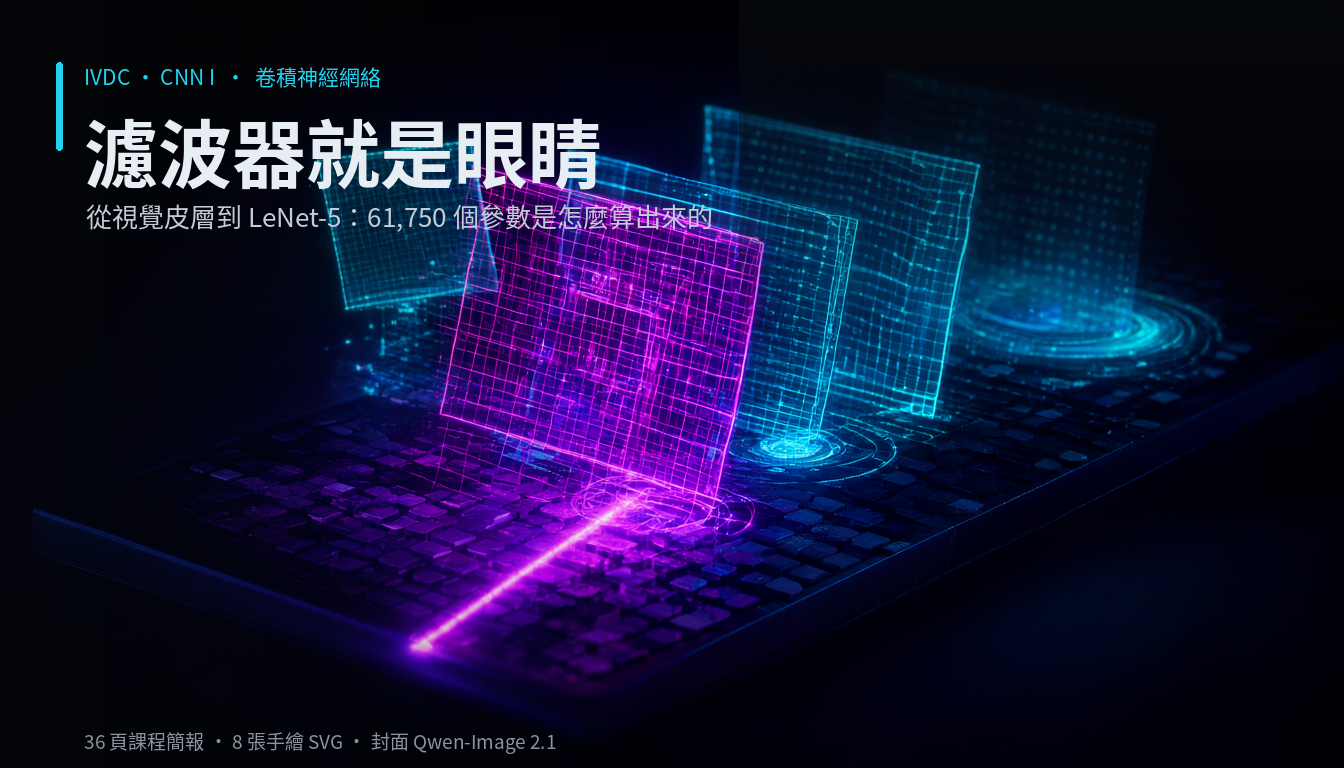
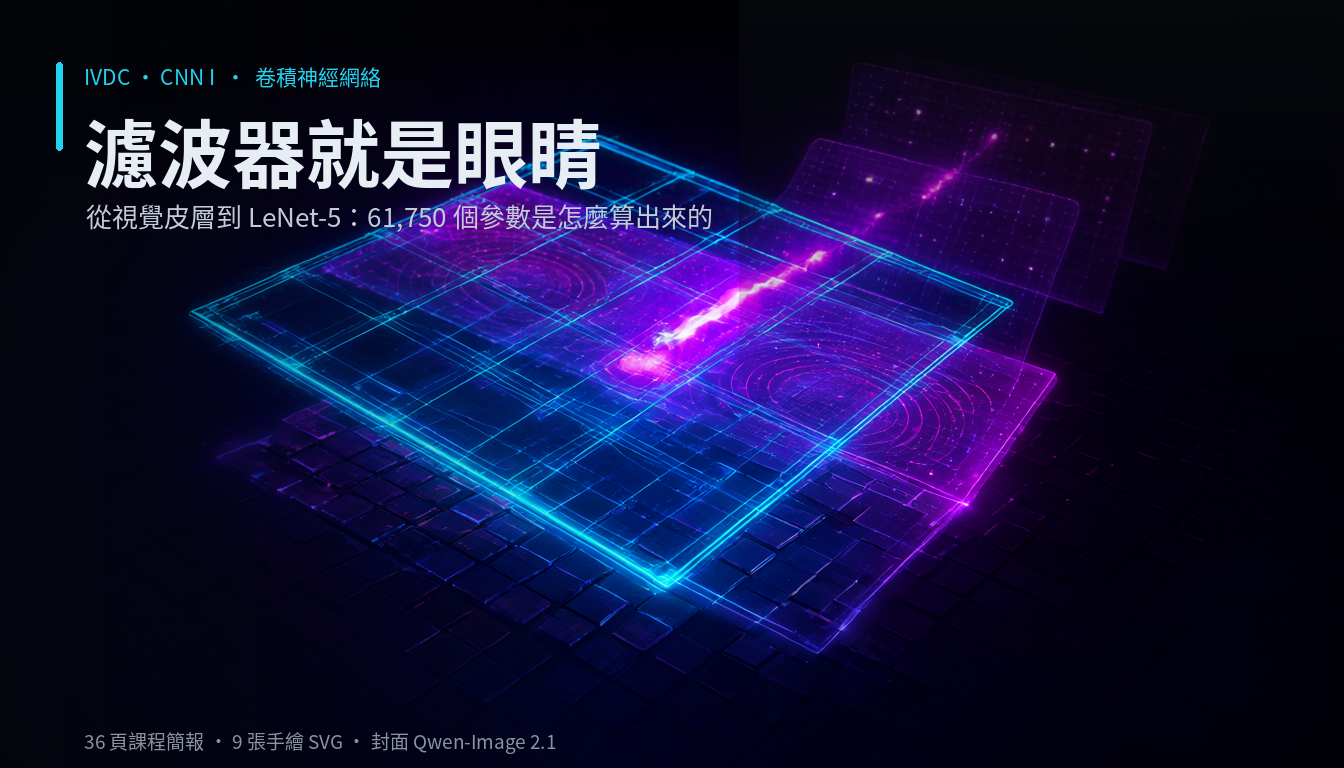
post(figs): 補第 8 節「九個應用」+ 九宮格霓虹 SVG（第 9 張）；封面改用候選 A（標題區更暗）

diff --git a/source/_posts/cnn-1-convnet-neon.md b/source/_posts/cnn-1-convnet-neon.md
@@ -20,7 +20,7 @@ index_img: /img/covers/cnn-1-convnet-neon.png
 banner_img: /img/covers/cnn-1-convnet-neon-banner.png
 ---
 
-> <strong>整理說明</strong>：這是我上 IVDC「卷積神經網絡（CNN）I」的課後筆記。36 頁課程簡報講的是很標準的一條線：影像為什麼是數字、視覺皮層的四層抽象、卷積的三條規則、LeNet-5、以及卷積的反向傳播。簡報本身有幾個數字我算不回去（1080×1080×3 的向量長度、86 億神經元的連線總數、LeNet-5 的參數總數），我把它們全部重算一次，列在 <a href="#errata">第 8 節</a>。文中每一個參數量與乘加次數都是我逐層手算、再寫程式覆核的；插圖是自己畫的 SVG（霓虹風），封面是本地 ComfyUI 跑 Qwen-Image 2.1 生成的。
+> <strong>整理說明</strong>：這是我上 IVDC「卷積神經網絡（CNN）I」的課後筆記。36 頁課程簡報講的是很標準的一條線：影像為什麼是數字、視覺皮層的四層抽象、卷積的三條規則、LeNet-5、以及卷積的反向傳播。簡報本身有幾個數字我算不回去（1080×1080×3 的向量長度、86 億神經元的連線總數、LeNet-5 的參數總數），我把它們全部重算一次，列在 <a href="#errata">第 9 節</a>。文中每一個參數量與乘加次數都是我逐層手算、再寫程式覆核的；插圖是自己畫的 SVG（霓虹風），封面是本地 ComfyUI 跑 Qwen-Image 2.1 生成的。
 
 <!-- more -->
 
@@ -1238,9 +1238,111 @@ C5 的感受野正好是 **32×32 = 整張輸入**。這不是巧合：如果最
 池化的梯度只做路由：max 把梯度整包給 argmax 的位置，avg 平均分給窗口內每個像素（`G/k²`）。
 
 
+## 8. 簡報只點名、沒有展開的那一塊：九個應用
+
+第 4 個模組列了九個應用（語義分割、人臉、自駕、上色、場景優化、超解析、醫學、生物、基因組），但整份簡報在反傳那頁就結束了 —— 這九個其實只出現在目錄上。我把它們整理成一張圖，並標上各自用到 CNN 的哪個部位：
+
+<figure style="margin:22px 0;padding:14px 12px;background:#0d1117;border:1px solid #222b36;border-radius:12px;text-align:center;-webkit-print-color-adjust:exact;print-color-adjust:exact">
+<svg xmlns="http://www.w3.org/2000/svg" viewBox="0 0 960 640" role="img" aria-label="九宮格列出簡報點名的九個 CNN 應用：語義分割、人臉、自駕、上色、場景優化、超解析、醫學、生物、基因組" style="width:100%;height:auto;display:block">
+<defs>
+<filter id="f9-glow" x="-60%" y="-60%" width="220%" height="220%"><feGaussianBlur stdDeviation="6" result="b"/><feMerge><feMergeNode in="b"/><feMergeNode in="SourceGraphic"/></feMerge></filter>
+<filter id="f9-soft" x="-60%" y="-60%" width="220%" height="220%"><feGaussianBlur stdDeviation="11" result="b"/><feMerge><feMergeNode in="b"/><feMergeNode in="SourceGraphic"/></feMerge></filter>
+<pattern id="f9-grid" width="24" height="24" patternUnits="userSpaceOnUse"><path d="M24 0H0V24" fill="none" stroke="#1a2331" stroke-width="1"/></pattern>
+<marker id="f9-arw-22d3ee" viewBox="0 0 10 10" refX="8.5" refY="5" markerWidth="5.5" markerHeight="5.5" orient="auto-start-reverse"><path d="M0,0 L10,5 L0,10 z" fill="#22d3ee"/></marker><marker id="f9-arw-a78bfa" viewBox="0 0 10 10" refX="8.5" refY="5" markerWidth="5.5" markerHeight="5.5" orient="auto-start-reverse"><path d="M0,0 L10,5 L0,10 z" fill="#a78bfa"/></marker><marker id="f9-arw-f472b6" viewBox="0 0 10 10" refX="8.5" refY="5" markerWidth="5.5" markerHeight="5.5" orient="auto-start-reverse"><path d="M0,0 L10,5 L0,10 z" fill="#f472b6"/></marker><marker id="f9-arw-fbbf24" viewBox="0 0 10 10" refX="8.5" refY="5" markerWidth="5.5" markerHeight="5.5" orient="auto-start-reverse"><path d="M0,0 L10,5 L0,10 z" fill="#fbbf24"/></marker><marker id="f9-arw-a3e635" viewBox="0 0 10 10" refX="8.5" refY="5" markerWidth="5.5" markerHeight="5.5" orient="auto-start-reverse"><path d="M0,0 L10,5 L0,10 z" fill="#a3e635"/></marker><marker id="f9-arw-2dd4bf" viewBox="0 0 10 10" refX="8.5" refY="5" markerWidth="5.5" markerHeight="5.5" orient="auto-start-reverse"><path d="M0,0 L10,5 L0,10 z" fill="#2dd4bf"/></marker></defs>
+<rect x="0.75" y="0.75" width="958.5" height="638.5" rx="16" fill="#0d1117" stroke="#222b36" stroke-width="1.5"/>
+<rect x="0.75" y="0.75" width="958.5" height="638.5" rx="16" fill="url(#f9-grid)" opacity="0.5"/>
+<text x="48" y="52" font-size="25" fill="#e6edf3" font-weight="700" font-family="'Segoe UI','Microsoft JhengHei','Noto Sans TC',sans-serif">第 4 個模組：同一個積木，九種用途</text>
+<text x="48" y="80" font-size="14.5" fill="#8b949e" font-family="'Segoe UI','Microsoft JhengHei','Noto Sans TC',sans-serif">(Conv+ReLU+Pool)×N + FC —— 換的是資料與損失函數，不是架構</text>
+<rect x="48.0" y="112.0" width="272.0" height="150.0" rx="12" fill="#0d1621" opacity="1.0" stroke="#22d3ee55" stroke-width="1.3"/>
+<rect x="73" y="141" width="42" height="42" rx="4" fill="none" stroke="#22d3ee" stroke-width="1.8" opacity="0.55"/><path d="M73 164 L88 153 L98 165 L115 154 L115 183 L73 183 Z" fill="#22d3ee" opacity="0.32"/><path d="M73 164 L88 153 L98 165 L115 154" fill="none" stroke="#22d3ee" stroke-width="2"/><text x="132.0" y="156.0" font-size="14.5" fill="#e6edf3" font-weight="700" font-family="'Segoe UI','Microsoft JhengHei','Noto Sans TC',sans-serif" opacity="1.0">語義分割</text>
+<text x="132.0" y="176.0" font-size="10.5" fill="#8b949e" font-weight="400" font-family="'Segoe UI','Microsoft JhengHei','Noto Sans TC',sans-serif" opacity="1.0">逐像素分類：</text>
+<text x="68.0" y="216.0" font-size="10.5" fill="#9aa7b6" font-weight="400" font-family="'Segoe UI','Microsoft JhengHei','Noto Sans TC',sans-serif" opacity="1.0">H×W×C → H×W×classes</text>
+<path d="M 68.0 232.0 L 300.0 232.0" fill="none" stroke="#222b36" stroke-width="1" opacity="1.0"/>
+<text x="68.0" y="250.0" font-size="9.5" fill="#4d5a6b" font-weight="400" font-family="'Segoe UI','Microsoft JhengHei','Noto Sans TC',sans-serif" opacity="1.0">第 4 模組</text>
+<text x="300.0" y="250.0" font-size="9.5" fill="#4d5a6b" font-weight="400" font-family="'Segoe UI','Microsoft JhengHei','Noto Sans TC',sans-serif" opacity="1.0" text-anchor="end">#1</text>
+<rect x="344.0" y="112.0" width="272.0" height="150.0" rx="12" fill="#0d1621" opacity="1.0" stroke="#a78bfa55" stroke-width="1.3"/>
+<circle cx="390" cy="162" r="13" fill="none" stroke="#a78bfa" stroke-width="1.8"/><circle cx="385.5" cy="158" r="1.9" fill="#a78bfa"/><circle cx="394.5" cy="158" r="1.9" fill="#a78bfa"/><path d="M385 167 Q390 172 395 167" fill="none" stroke="#a78bfa" stroke-width="1.7"/><path d="M364 136 l7 0 M364 136 l0 7" fill="none" stroke="#a78bfa" stroke-width="2" opacity="0.8"/><path d="M416 136 l-7 0 M416 136 l0 7" fill="none" stroke="#a78bfa" stroke-width="2" opacity="0.8"/><path d="M364 188 l7 0 M364 188 l0 -7" fill="none" stroke="#a78bfa" stroke-width="2" opacity="0.8"/><path d="M416 188 l-7 0 M416 188 l0 7" fill="none" stroke="#a78bfa" stroke-width="2" opacity="0.8"/><text x="428.0" y="156.0" font-size="14.5" fill="#e6edf3" font-weight="700" font-family="'Segoe UI','Microsoft JhengHei','Noto Sans TC',sans-serif" opacity="1.0">人臉偵測 / 識別</text>
+<text x="428.0" y="176.0" font-size="10.5" fill="#8b949e" font-weight="400" font-family="'Segoe UI','Microsoft JhengHei','Noto Sans TC',sans-serif" opacity="1.0">偵測＝錨框；識別＝嵌入＋度量學習</text>
+<text x="364.0" y="216.0" font-size="10.5" fill="#9aa7b6" font-weight="400" font-family="'Segoe UI','Microsoft JhengHei','Noto Sans TC',sans-serif" opacity="1.0">偵測＝錨框；識別＝嵌入＋度量學習</text>
+<path d="M 364.0 232.0 L 596.0 232.0" fill="none" stroke="#222b36" stroke-width="1" opacity="1.0"/>
+<text x="364.0" y="250.0" font-size="9.5" fill="#4d5a6b" font-weight="400" font-family="'Segoe UI','Microsoft JhengHei','Noto Sans TC',sans-serif" opacity="1.0">第 4 模組</text>
+<text x="596.0" y="250.0" font-size="9.5" fill="#4d5a6b" font-weight="400" font-family="'Segoe UI','Microsoft JhengHei','Noto Sans TC',sans-serif" opacity="1.0" text-anchor="end">#2</text>
+<rect x="640.0" y="112.0" width="272.0" height="150.0" rx="12" fill="#0d1621" opacity="1.0" stroke="#f472b655" stroke-width="1.3"/>
+<path d="M665 183 L680 141 L692 141 L707 183" fill="none" stroke="#f472b6" stroke-width="1.6" opacity="0.6"/><path d="M686 146 L686 159 M686 167 L686 179" stroke="#f472b6" stroke-width="2" stroke-dasharray="4 4"/><rect x="678" y="161" width="16" height="10" rx="2" fill="none" stroke="#f472b6" stroke-width="1.8"/><text x="724.0" y="156.0" font-size="14.5" fill="#e6edf3" font-weight="700" font-family="'Segoe UI','Microsoft JhengHei','Noto Sans TC',sans-serif" opacity="1.0">自動駕駛</text>
+<text x="724.0" y="176.0" font-size="10.5" fill="#8b949e" font-weight="400" font-family="'Segoe UI','Microsoft JhengHei','Noto Sans TC',sans-serif" opacity="1.0">即時偵測＋分割＋深度</text>
+<text x="660.0" y="216.0" font-size="10.5" fill="#9aa7b6" font-weight="400" font-family="'Segoe UI','Microsoft JhengHei','Noto Sans TC',sans-serif" opacity="1.0">即時偵測＋分割＋深度</text>
+<path d="M 660.0 232.0 L 892.0 232.0" fill="none" stroke="#222b36" stroke-width="1" opacity="1.0"/>
+<text x="660.0" y="250.0" font-size="9.5" fill="#4d5a6b" font-weight="400" font-family="'Segoe UI','Microsoft JhengHei','Noto Sans TC',sans-serif" opacity="1.0">第 4 模組</text>
+<text x="892.0" y="250.0" font-size="9.5" fill="#4d5a6b" font-weight="400" font-family="'Segoe UI','Microsoft JhengHei','Noto Sans TC',sans-serif" opacity="1.0" text-anchor="end">#3</text>
+<rect x="48.0" y="286.0" width="272.0" height="150.0" rx="12" fill="#0d1621" opacity="1.0" stroke="#fbbf2455" stroke-width="1.3"/>
+<circle cx="94" cy="336" r="21" fill="#fbbf24" opacity="0.18"/><path d="M94 315 A 21 21 0 0 0 94 357 Z" fill="#3a4550"/><path d="M94 315 A 21 21 0 0 1 94 357 Z" fill="#fbbf24" opacity="0.85"/><circle cx="94" cy="336" r="21" fill="none" stroke="#fbbf24" stroke-width="1.6"/><path d="M94 315 L94 357" stroke="#fbbf24" stroke-width="1.4" opacity="0.7"/><text x="132.0" y="330.0" font-size="14.5" fill="#e6edf3" font-weight="700" font-family="'Segoe UI','Microsoft JhengHei','Noto Sans TC',sans-serif" opacity="1.0">影像上色</text>
+<text x="132.0" y="350.0" font-size="10.5" fill="#8b949e" font-weight="400" font-family="'Segoe UI','Microsoft JhengHei','Noto Sans TC',sans-serif" opacity="1.0">L → a, b 通道迴歸</text>
+<text x="68.0" y="390.0" font-size="10.5" fill="#9aa7b6" font-weight="400" font-family="'Segoe UI','Microsoft JhengHei','Noto Sans TC',sans-serif" opacity="1.0">L → a, b 通道迴歸</text>
+<path d="M 68.0 406.0 L 300.0 406.0" fill="none" stroke="#222b36" stroke-width="1" opacity="1.0"/>
+<text x="68.0" y="424.0" font-size="9.5" fill="#4d5a6b" font-weight="400" font-family="'Segoe UI','Microsoft JhengHei','Noto Sans TC',sans-serif" opacity="1.0">第 4 模組</text>
+<text x="300.0" y="424.0" font-size="9.5" fill="#4d5a6b" font-weight="400" font-family="'Segoe UI','Microsoft JhengHei','Noto Sans TC',sans-serif" opacity="1.0" text-anchor="end">#4</text>
+<rect x="344.0" y="286.0" width="272.0" height="150.0" rx="12" fill="#0d1621" opacity="1.0" stroke="#a3e63555" stroke-width="1.3"/>
+<path d="M369 325 L411 325" stroke="#a3e635" stroke-width="1.6" opacity="0.55"/><circle cx="383" cy="325" r="4" fill="#a3e635"/><path d="M369 336 L411 336" stroke="#a3e635" stroke-width="1.6" opacity="0.55"/><circle cx="395" cy="336" r="4" fill="#a3e635"/><path d="M369 347 L411 347" stroke="#a3e635" stroke-width="1.6" opacity="0.55"/><circle cx="388" cy="347" r="4" fill="#a3e635"/><text x="428.0" y="330.0" font-size="14.5" fill="#e6edf3" font-weight="700" font-family="'Segoe UI','Microsoft JhengHei','Noto Sans TC',sans-serif" opacity="1.0">場景／照片優化</text>
+<text x="428.0" y="350.0" font-size="10.5" fill="#8b949e" font-weight="400" font-family="'Segoe UI','Microsoft JhengHei','Noto Sans TC',sans-serif" opacity="1.0">反傳進「影像」，不只調權重</text>
+<text x="364.0" y="390.0" font-size="10.5" fill="#9aa7b6" font-weight="400" font-family="'Segoe UI','Microsoft JhengHei','Noto Sans TC',sans-serif" opacity="1.0">反傳進「影像」，不只調權重</text>
+<path d="M 364.0 406.0 L 596.0 406.0" fill="none" stroke="#222b36" stroke-width="1" opacity="1.0"/>
+<text x="364.0" y="424.0" font-size="9.5" fill="#4d5a6b" font-weight="400" font-family="'Segoe UI','Microsoft JhengHei','Noto Sans TC',sans-serif" opacity="1.0">第 4 模組</text>
+<text x="596.0" y="424.0" font-size="9.5" fill="#4d5a6b" font-weight="400" font-family="'Segoe UI','Microsoft JhengHei','Noto Sans TC',sans-serif" opacity="1.0" text-anchor="end">#5</text>
+<rect x="640.0" y="286.0" width="272.0" height="150.0" rx="12" fill="#0d1621" opacity="1.0" stroke="#2dd4bf55" stroke-width="1.3"/>
+<rect x="665" y="338" width="11" height="11" rx="2" fill="none" stroke="#2dd4bf" stroke-width="1.6" opacity="0.6"/><rect x="687" y="330" width="20" height="20" rx="3" fill="none" stroke="#2dd4bf" stroke-width="2"/><path d="M678 342 L684 335" stroke="#2dd4bf" stroke-width="1.6" marker-end="url(#f9-arw-2dd4bf)"/><text x="724.0" y="330.0" font-size="14.5" fill="#e6edf3" font-weight="700" font-family="'Segoe UI','Microsoft JhengHei','Noto Sans TC',sans-serif" opacity="1.0">超解析（放大）</text>
+<text x="724.0" y="350.0" font-size="10.5" fill="#8b949e" font-weight="400" font-family="'Segoe UI','Microsoft JhengHei','Noto Sans TC',sans-serif" opacity="1.0">轉置卷積／sub-pixel 上採樣</text>
+<text x="660.0" y="390.0" font-size="10.5" fill="#9aa7b6" font-weight="400" font-family="'Segoe UI','Microsoft JhengHei','Noto Sans TC',sans-serif" opacity="1.0">轉置卷積／sub-pixel 上採樣</text>
+<path d="M 660.0 406.0 L 892.0 406.0" fill="none" stroke="#222b36" stroke-width="1" opacity="1.0"/>
+<text x="660.0" y="424.0" font-size="9.5" fill="#4d5a6b" font-weight="400" font-family="'Segoe UI','Microsoft JhengHei','Noto Sans TC',sans-serif" opacity="1.0">第 4 模組</text>
+<text x="892.0" y="424.0" font-size="9.5" fill="#4d5a6b" font-weight="400" font-family="'Segoe UI','Microsoft JhengHei','Noto Sans TC',sans-serif" opacity="1.0" text-anchor="end">#6</text>
+<rect x="48.0" y="460.0" width="272.0" height="150.0" rx="12" fill="#0d1621" opacity="1.0" stroke="#f472b655" stroke-width="1.3"/>
+<rect x="71" y="489" width="46" height="42" rx="5" fill="none" stroke="#f472b6" stroke-width="1.4" opacity="0.5"/><path d="M73 510 L87 510 L91 499 L96 521 L100 506 L103 510 L115 510" fill="none" stroke="#f472b6" stroke-width="2"/><text x="132.0" y="504.0" font-size="14.5" fill="#e6edf3" font-weight="700" font-family="'Segoe UI','Microsoft JhengHei','Noto Sans TC',sans-serif" opacity="1.0">醫學影像</text>
+<text x="132.0" y="524.0" font-size="10.5" fill="#8b949e" font-weight="400" font-family="'Segoe UI','Microsoft JhengHei','Noto Sans TC',sans-serif" opacity="1.0">X 光、CT、MRI（常為 3D）</text>
+<text x="68.0" y="564.0" font-size="10.5" fill="#9aa7b6" font-weight="400" font-family="'Segoe UI','Microsoft JhengHei','Noto Sans TC',sans-serif" opacity="1.0">X 光、CT、MRI（常為 3D）</text>
+<path d="M 68.0 580.0 L 300.0 580.0" fill="none" stroke="#222b36" stroke-width="1" opacity="1.0"/>
+<text x="68.0" y="598.0" font-size="9.5" fill="#4d5a6b" font-weight="400" font-family="'Segoe UI','Microsoft JhengHei','Noto Sans TC',sans-serif" opacity="1.0">第 4 模組</text>
+<text x="300.0" y="598.0" font-size="9.5" fill="#4d5a6b" font-weight="400" font-family="'Segoe UI','Microsoft JhengHei','Noto Sans TC',sans-serif" opacity="1.0" text-anchor="end">#7</text>
+<rect x="344.0" y="460.0" width="272.0" height="150.0" rx="12" fill="#0d1621" opacity="1.0" stroke="#a78bfa55" stroke-width="1.3"/>
+<circle cx="390" cy="510" r="21" fill="#a78bfa" opacity="0.10"/><circle cx="390" cy="510" r="21" fill="none" stroke="#a78bfa" stroke-width="1.8"/><circle cx="386" cy="507" r="5" fill="none" stroke="#a78bfa" stroke-width="1.5"/><circle cx="396" cy="506" r="1.9" fill="#a78bfa"/><circle cx="397" cy="516" r="1.9" fill="#a78bfa"/><circle cx="388" cy="518" r="1.9" fill="#a78bfa"/><circle cx="382" cy="512" r="1.9" fill="#a78bfa"/><text x="428.0" y="504.0" font-size="14.5" fill="#e6edf3" font-weight="700" font-family="'Segoe UI','Microsoft JhengHei','Noto Sans TC',sans-serif" opacity="1.0">生物影像</text>
+<text x="428.0" y="524.0" font-size="10.5" fill="#8b949e" font-weight="400" font-family="'Segoe UI','Microsoft JhengHei','Noto Sans TC',sans-serif" opacity="1.0">顯微鏡、細胞分割、連接體</text>
+<text x="364.0" y="564.0" font-size="10.5" fill="#9aa7b6" font-weight="400" font-family="'Segoe UI','Microsoft JhengHei','Noto Sans TC',sans-serif" opacity="1.0">顯微鏡、細胞分割、連接體</text>
+<path d="M 364.0 580.0 L 596.0 580.0" fill="none" stroke="#222b36" stroke-width="1" opacity="1.0"/>
+<text x="364.0" y="598.0" font-size="9.5" fill="#4d5a6b" font-weight="400" font-family="'Segoe UI','Microsoft JhengHei','Noto Sans TC',sans-serif" opacity="1.0">第 4 模組</text>
+<text x="596.0" y="598.0" font-size="9.5" fill="#4d5a6b" font-weight="400" font-family="'Segoe UI','Microsoft JhengHei','Noto Sans TC',sans-serif" opacity="1.0" text-anchor="end">#8</text>
+<rect x="640.0" y="460.0" width="272.0" height="150.0" rx="12" fill="#0d1621" opacity="1.0" stroke="#22d3ee55" stroke-width="1.3"/>
+<path d="M677 489 C699 502 673 518 695 531" fill="none" stroke="#22d3ee" stroke-width="2"/><path d="M695 489 C673 502 699 518 677 531" fill="none" stroke="#22d3ee" stroke-width="2" opacity="0.75"/><path d="M682.64 497 L689.36 497" stroke="#22d3ee" stroke-width="1.3" opacity="0.6"/><path d="M680.68 504 L691.32 504" stroke="#22d3ee" stroke-width="1.3" opacity="0.6"/><path d="M679.0 510 L693.0 510" stroke="#22d3ee" stroke-width="1.3" opacity="0.6"/><path d="M680.68 516 L691.32 516" stroke="#22d3ee" stroke-width="1.3" opacity="0.6"/><path d="M682.64 523 L689.36 523" stroke="#22d3ee" stroke-width="1.3" opacity="0.6"/><text x="724.0" y="504.0" font-size="14.5" fill="#e6edf3" font-weight="700" font-family="'Segoe UI','Microsoft JhengHei','Noto Sans TC',sans-serif" opacity="1.0">基因組</text>
+<text x="724.0" y="524.0" font-size="10.5" fill="#8b949e" font-weight="400" font-family="'Segoe UI','Microsoft JhengHei','Noto Sans TC',sans-serif" opacity="1.0">一維卷積掃 DNA／染色質軌跡</text>
+<text x="660.0" y="564.0" font-size="10.5" fill="#9aa7b6" font-weight="400" font-family="'Segoe UI','Microsoft JhengHei','Noto Sans TC',sans-serif" opacity="1.0">一維卷積掃 DNA／染色質軌跡</text>
+<path d="M 660.0 580.0 L 892.0 580.0" fill="none" stroke="#222b36" stroke-width="1" opacity="1.0"/>
+<text x="660.0" y="598.0" font-size="9.5" fill="#4d5a6b" font-weight="400" font-family="'Segoe UI','Microsoft JhengHei','Noto Sans TC',sans-serif" opacity="1.0">第 4 模組</text>
+<text x="892.0" y="598.0" font-size="9.5" fill="#4d5a6b" font-weight="400" font-family="'Segoe UI','Microsoft JhengHei','Noto Sans TC',sans-serif" opacity="1.0" text-anchor="end">#9</text>
+<text x="48.0" y="616.0" font-size="12" fill="#fbbf24" font-weight="600" font-family="'Segoe UI','Microsoft JhengHei','Noto Sans TC',sans-serif" opacity="1.0">九個任務共用同一個前處理器 —— 這就是「一個架構重複使用」的意思；代價是每個任務都要自己的標註資料。</text>
+</svg>
+</figure>
+
+
+三個值得補上的觀察：
+
+**一、能共用是因為歸納偏置一樣。** 局部性（每個濾波器只看一個 patch）＋平移等變（同一個濾波器掃全圖），這兩個假設在自然影像、醫學影像、顯微鏡影像、甚至 DNA 序列的「局部模體」上都成立，所以同一組積木可以直接搬。真正不能搬的是 **1D/3D 的維度約定**：基因組要一維卷積、CT 要三維卷積，但卷積的定義本身沒變。
+
+**二、差異幾乎都在「輸出頭」與損失函數，不在骨幹。**
+
+| 任務 | 輸出頭 | 損失 |
+| --- | --- | --- |
+| 分類 / 識別 | softmax over classes（或嵌入向量） | 交叉熵 / triplet、center loss |
+| 語義分割 | 每個像素一組類別 | 逐像素交叉熵 + Dice |
+| 偵測 | 框迴歸 + 物件性分數 | smooth L1 + 物件性 BCE |
+| 上色 | 兩個通道 `a, b` | L1 / L2（或對抗損失） |
+| 超解析 | 高解析像素 | L1 + 感知 / 對抗損失 |
+| 場景 / 照片優化 | **輸入本身**（要優化的是像素，不是權重） | 任務定義的目標函數 |
+
+最後那一列是很容易被忽略的用法：把網路固定住，反傳到**影像**而不是權重 —— 這就是「用 CNN 調整照片／場景」的意思，也是對抗樣本與特徵視覺化（Grad-CAM、deep dream）的共同機制。
+
+**三、代價是標註，不是算力。** 九個任務裡，分類只要一個標籤；分割要逐像素遮罩；醫學影像還要放射科醫師。這也是為什麼預訓練骨幹 + 少量微調會變成常態 —— 骨幹學到的邊緣、紋理、部件，在九個任務之間是可以轉移的。
+
 <a id="errata"></a>
 
-## 8. 我在簡報上抓到的七個錯
+## 9. 我在簡報上抓到的七個錯
 
 這一段是我重算時的副產品。不是要挑剔，而是這些數字如果照抄，考試或報告會出事：
 
@@ -1259,7 +1361,7 @@ C5 的感受野正好是 **32×32 = 整張輸入**。這不是巧合：如果最
 - **「卷積」**在深度學習其實是互相關（不翻轉核）。翻不翻轉對學出來的權重沒影響，但對訊號處理的性質、以及手推梯度有影響。
 - **池化不是可學習的**（現代意義上）。LeNet-5 的平均池化帶可訓練的縮放與偏置係數，所以它的參數量有時會被算得比「純池化」多一些。
 
-## 9. 一頁公式表
+## 10. 一頁公式表
 
 ```
 影像
@@ -1290,20 +1392,20 @@ C5 的感受野正好是 **32×32 = 整張輸入**。這不是巧合：如果最
   (Conv → ReLU → Pool) × N → Flatten → FC × M → softmax
 ```
 
-## 10. 如果只記三件事
+## 11. 如果只記三件事
 
 1. **卷積 = 局部連接 + 參數共享。** 前者讓你只看鄰居，後者讓你不用為每個位置重新學一次。兩個加起來，才會有「參數量與影像大小無關」這個性質。
 2. **深度不是為了更深，是為了更大的感受野。** LeNet-5 把 5→6→14→16→32 疊到剛好等於輸入尺寸，這是一個可以被反推的設計目標，不是玄學。
 3. **梯度也是卷積。** 因為權重共享，`∂L/∂W` 要把所有位置的貢獻加起來；因為一個像素貢獻多個輸出，`∂L/∂X` 要把重疊疊起來。
 
-## 11. 參考與素材
+## 12. 參考與素材
 
 - LeCun, Bottou, Bengio & Haffner, *Gradient-Based Learning Applied to Document Recognition*, 1998 —— LeNet-5 原始論文。
 - Goodfellow, Bengio & Courville, *Deep Learning*, 2016 —— 簡報第 26 頁的邊緣核示意出自此。
 - Lee et al., ICML 2009 —— 「從資料學出特徵階層」的視覺化。
 - IVDC 匯縱專業發展中心「卷積神經網絡 I」課程簡報（36 頁）。
-- 本文的 8 張插圖是用 Python 產生、全部純 SVG（無點陣圖），霓虹配色沿用站上的 `#22d3ee` / `#f472b6`；封面由本地 ComfyUI 的 Qwen-Image 2.1 生成，無外部 API。
+- 本文的 9 張插圖是用 Python 產生、全部純 SVG（無點陣圖），霓虹配色沿用站上的 `#22d3ee` / `#f472b6`；封面由本地 ComfyUI 的 Qwen-Image 2.1 生成，無外部 API。
 
-> 這一講只到「卷積的反向傳播」為止，第 4 個模組（語義分割、人臉、自駕、上色、超解析、醫學、基因組）只點名沒有展開 —— 應該是下一講 CNN II 的內容。
+> 這一講只到「卷積的反向傳播」為止，第 4 個模組（語義分割、人臉、自駕、上色、超解析、醫學、基因組）只點名沒有展開 —— 我在第 8 節補了一張總覽，真正展開應該是下一講 CNN II 的事。
 
 
